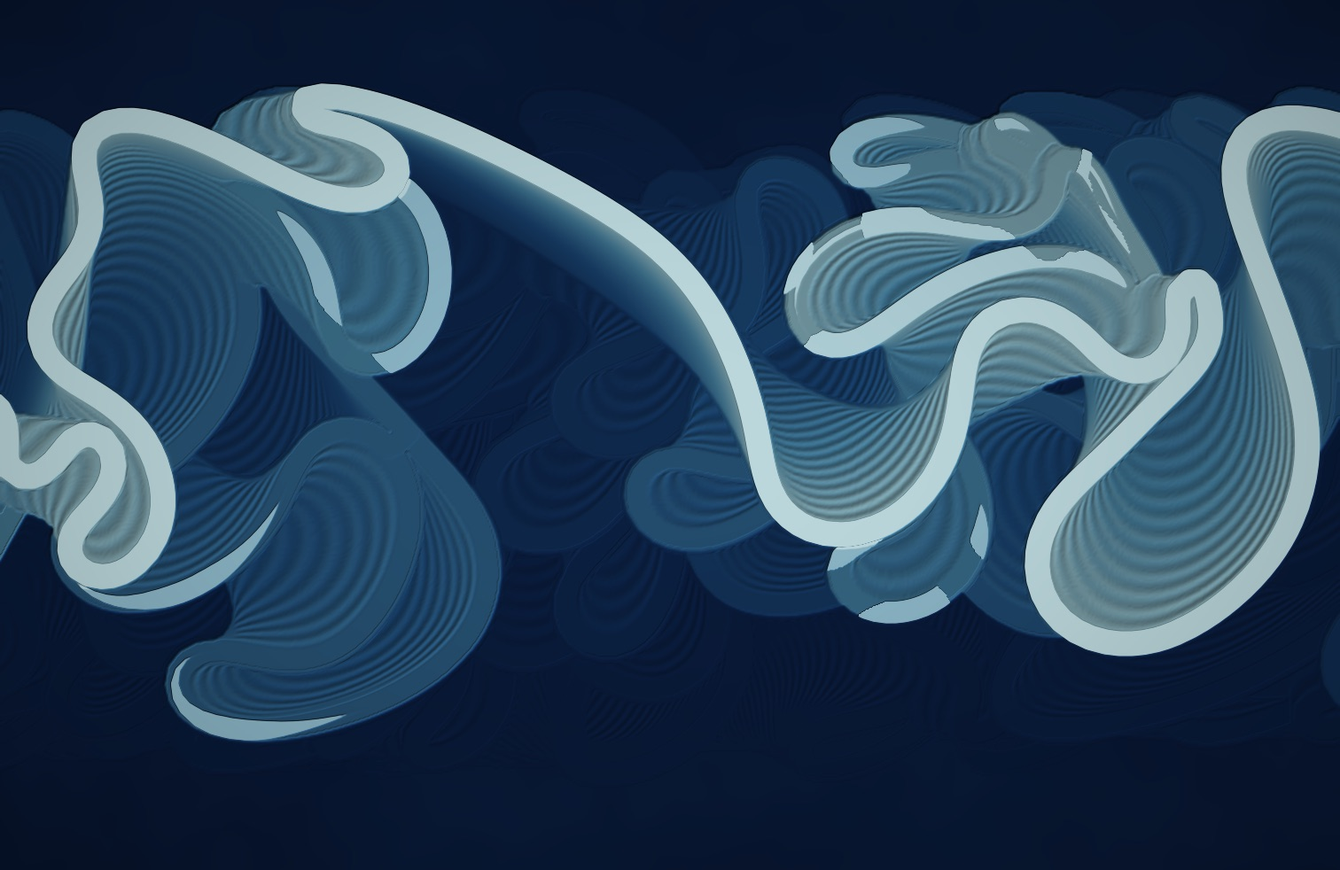
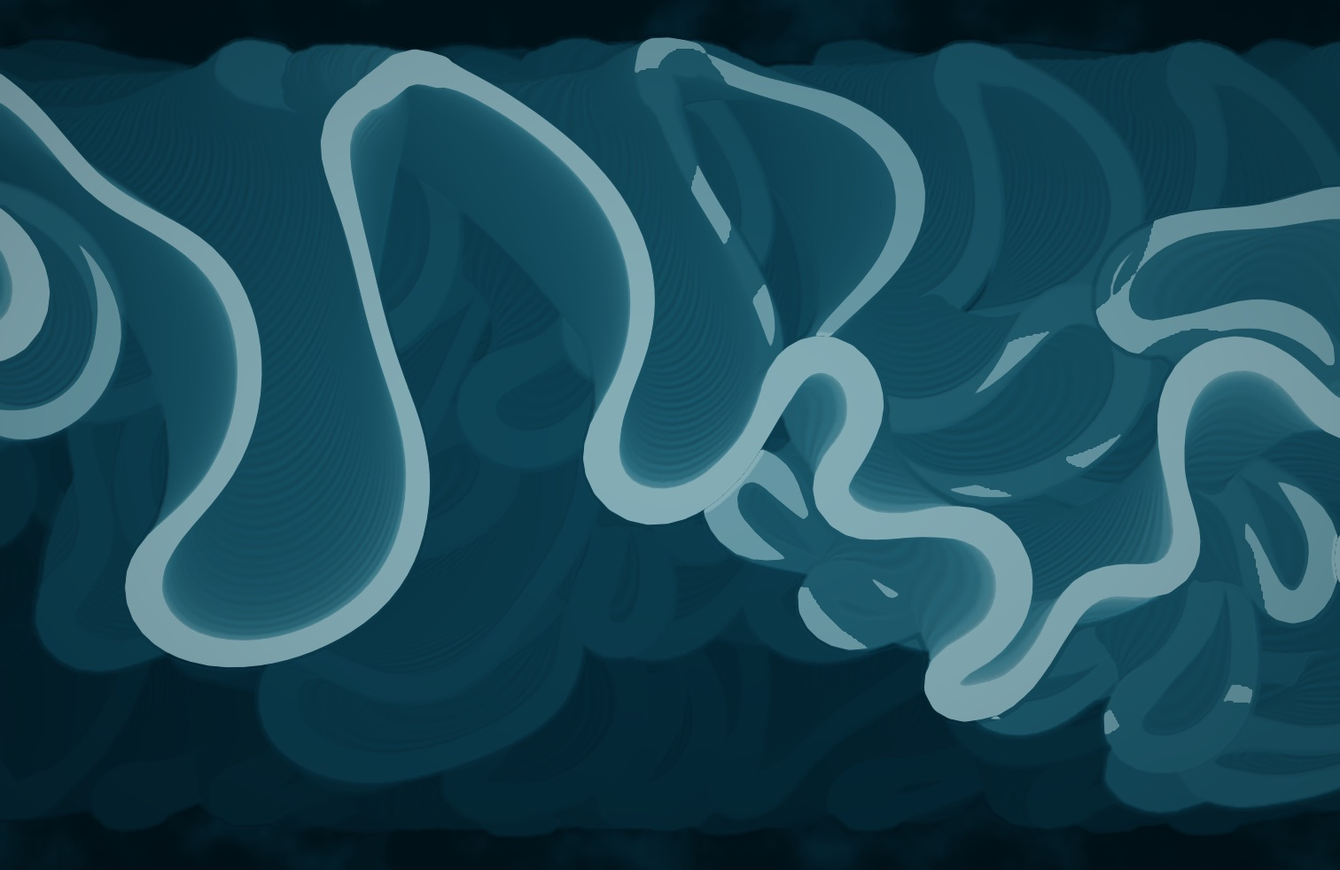
Docs: Meander's second round: the looks Dave picked, and a wrong measurement put right
The prototype's river was never twice too wide: the script had counted the
pale ground beside the water. The plan, the prototype and its pictures now
match the final round.

diff --git a/docs/meander/proto/render.py b/docs/meander/proto/render.py
@@ -85,7 +85,10 @@ def relief(r, f=2, palette="Survey Blue", crop=None, seed=7):
     p = RELIEF[palette]
     age = r.t - S
     # height above the river, 0 to 1: a bar is up out of the water within a couple of T, then silts up for ages
-    h = 0.42 * (1 - np.exp(-age / 1.6)) + 0.58 * (1 - np.exp(-age / 170))
+    h = 0.25 * (1 - np.exp(-age / 1.6)) + 0.75 * (1 - np.exp(-age / 90))
+    lage = np.maximum(r.t - SI, 0)  # the lake's own age (only right within two texels of its banks)
+    hollow = smooth(0.66 - LK, 0.0, 0.12) * smooth(lage, 2.0, 12.0) * np.exp(-lage / 140)  # an old channel stays low for a long while: never at once
+    h = h - 0.14 * hollow * smooth(h, 0.1, 0.4)
     # scroll bars: old bank lines, so contours of the stamp; two spacings beating, uneven in strength, and low
     gx, gy = grad(S); g = np.hypot(gx, gy)
     fade = 1 - smooth(2 * np.pi * g / TS, 0.7, 1.5)  # too fine to draw, and across a scarp: flat
@@ -98,11 +101,11 @@ def relief(r, f=2, palette="Survey Blue", crop=None, seed=7):
     # ground the river has not reached in memory: not flat, but nothing like a river's work either
     wild = smooth(age, AMAX * 0.80, AMAX * 0.98)
     rough = 0.6 * noise(S.shape, 60 * f // 2, seed) + 0.3 * noise(S.shape, 22 * f // 2, seed + 1) + 0.1 * noise(S.shape, 8 * f // 2, seed + 2)
-    hc = np.clip(h + 0.012 * scroll, 0, 1)
+    hc = np.clip(h + 0.02 * scroll, 0, 1)
     col = ramp(hc, p["stops"])
     col = col * (1 - wild[..., None]) + (p["ground"] + (np.array(p["stops"][5][1]) - p["ground"]) * smooth(rough, -0.1, 0.55)[..., None]) * wild[..., None]
     # light from the upper left on the fine relief only, and none within a few pixels of water: no rims
-    hs = 0.35 * h + 0.018 * scroll + 0.05 * wild * rough
+    hs = 0.35 * h + 0.03 * scroll + 0.05 * wild * rough
     gx, gy = grad(hs)
     z = 5.0 * f
     nx, ny = -gx * z, -gy * z
@@ -114,7 +117,7 @@ def relief(r, f=2, palette="Survey Blue", crop=None, seed=7):
     col = col * (1 - water[..., None]) + wcol * water[..., None]
     yy, xx = np.mgrid[0:S.shape[0], 0:S.shape[1]]
     vig = 1 - 0.22 * (((xx / S.shape[1] - 0.5) ** 2 + (yy / S.shape[0] - 0.5) ** 2) * 2)
-    return np.clip(col * vig[..., None], 0, 1)
+    return np.clip(col * vig[..., None] * 0.86, 0, 1)
 
 
 FISK = {
@@ -161,7 +164,8 @@ def fisk(r, f=2, palette="Fisk 1944", crop=None, seed=7):
     w = np.maximum(river, lake)[..., None]
     col = col * (1 - w) + p["river"][None, None, :] * grain * w
     heavy = 1 - smooth(np.abs(DA - 0.5), 0.9 * px, 2.2 * px)  # the present banks: the only heavy line on the sheet
-    thin = (1 - smooth(np.abs(LK - 0.5), 0.3 * px, 1.3 * px)) * (1 - river) * 0.7
+    fresh = 1 - smooth(r.t - SI, 0.5, 6.0)  # a new lake keeps the river's heavy bank line, thinning over a few T
+    thin = np.maximum((1 - smooth(np.abs(LK - 0.5), 0.3 * px, 1.3 * px)) * 0.7, (1 - smooth(np.abs(LK - 0.5), 0.9 * px, 2.2 * px)) * fresh) * (1 - river)
     line = np.maximum(heavy, thin)[..., None]
     col = col * (1 - line) + p["line"][None, None, :] * line
     yy, xx = np.mgrid[0:S.shape[0], 0:S.shape[1]]

diff --git a/docs/meander/proto/meander.py b/docs/meander/proto/meander.py
@@ -210,7 +210,7 @@ class River:
         rising = (cov > s.cov) & ~full
         old = np.maximum(s.stamp[rising], s.t - 400.0)
         s.stamp[rising] = old + (s.t - old) * (cov[rising] - s.cov[rising]) / (1 - s.cov[rising])
-        np.maximum(s.lake, 1 - d, out=s.lake, where=d < 1)  # the river eats any lake it crosses, to a fraction of a texel
+        np.maximum(s.lake, 0.5 + 3 * (0.5 - d), out=s.lake, where=d < 1)  # the river eats any lake it crosses, to a fraction of a texel
         s.cov = cov
 
     def make_lake(s, lx, ly, lh):
@@ -236,7 +236,8 @@ class River:
         for idx, rate, born, end, half in s.lakes:
             front = (half + 2) * smooth(np.float32(s.t - born), s.lake_life * 0.3, s.lake_life) - 1.5
             late = s.lake_close * smooth(front - end, -1.5, 0.5)
-            lk[idx] = np.minimum(lk[idx] + (rate + late) * s.lake_fill * dT, 1.0)
+            v = lk[idx]
+            lk[idx] = np.where(v < 0.56, np.minimum(v + (rate + late) * s.lake_fill * dT, 0.56), v)  # a dried lake stays a hollow
         s.lakes = [L for L in s.lakes if s.t - L[2] < s.lake_life * 1.5]
 
     def live_band(s, r=0.5):

diff --git a/docs/meander/proto/long.py b/docs/meander/proto/long.py
@@ -7,8 +7,8 @@ import render
 out, seed, steps = sys.argv[1], int(sys.argv[2]), int(sys.argv[3])
 os.makedirs(out, exist_ok=True)
 r = River(seed=seed); t0 = time.time(); log = []
-minutes = {6000 + k * 60 for k in range(6)}        # 2.4 T apart: three minutes of wallpaper time each
-hours = set(range(10000, steps + 1, 10000))        # 400 T apart: 8 h 20 min each
+minutes = {1500} | {8000 + k * 60 for k in range(6)}  # the first frame after a T 60 launch history; then 2.4 T apart
+hours = set(range(2500, steps + 1, 2500))          # 100 T apart
 for n in range(1, steps + 1):
     r.step()
     if n % 1000 == 0:

diff --git a/docs/meander/research-simulation.md b/docs/meander/research-simulation.md
@@ -2,6 +2,8 @@
 
 A research agent's report as it was sent on 2026-10-10, unedited, kept so its detail and sources aren't lost. The plan beside it is the summary and has Dave's decisions; where the two differ, the plan is later. `scratch/` was the session's temporary folder: the scripts and pictures worth keeping were copied into this folder, the rest (downloaded references, video clips) is gone and its source URLs are below.
 
+The first seven messages are round 1; the note and five messages after them are round 2, which fixes the looks and has the complete maths as the final prototype runs it. The last message was sent to the look research's agent.
+
 Meander 1/7: it works, and one simulation feeds both looks. Verdict, paths, and what is and isn't proven.
 
 A Python prototype ran three days of wallpaper time (90,000 steps, 2,500 cutoffs) without the river crossing itself, leaving the valley, straightening or dying. It draws a Fisk-style map and a shaded relief from the same three per-texel fields, at the texture size the app would use (756 x 491, one texel per 2 pt), read the way Turing Patterns' shader reads its texture.
@@ -232,3 +234,193 @@ URLs:
 Unsourced: that a pinned inlet washes out because the instability travels downstream is my reading of what I saw. No real river's migration rate is cited anywhere above.
 
 Nothing was blocked. I wrote only under the scratchpad's meander/ folder.
+
+---
+
+Meander interim (new stills and a cutoff strip follow in a few minutes): the river in t5/t6 was not twice too wide, and three of the four faults are now fixed in the renders.
+
+Scale: I measured the water itself in my renders (distance transform on the water's colour). t5, t6 and every still I sent are 28 px of 1512 = 1.84% of the frame, 54 widths across: inside meander-look's 40 to 55. t1 was 16 px, 1.06%, 94 across. meander-look's 3.5 to 4% comes from thresholding brightness (scripts/width.py), which also counts the pale new ground beside the water. In my first relief that ground stayed pale for about 8 widths behind the moving bank, so the river read as a fat pipe. So the slider's true-to-life default is the geometry you already saw (28 to 32 pt); zooming in goes from there. What had to change was the look, not the scale.
+
+Fixed in the renders now (render.py, earlier version kept as render-v1.py):
+1. Pipe: no outline in relief. New ground now rises out of river level within about half a width of the bank, so the bright ribbon is the water plus a narrow apron. The channel's width now varies along its length, 0.7 W on straight reaches to 1.5 W round the tightest bends, easing over time so a cutoff can't jump it (meander.py; the earlier one is meander-v1-constant-width.py).
+2. Scroll rings: two spacings beating, uneven in strength, a few percent of brightness, about 0.2 W apart at the average bank's pace. At one pixel a point they nearly vanish; they show at Retina.
+3. Band colours: Fisk's four inks on cream with his line ink, as meander-look measured them; older is paler by his ink-coverage steps (solid, 65, 50, 40, 23%) as flat tints that slide smoothly; the live river is bare paper between heavy bank lines. Single-ink and dark versions too.
+
+Partly fixed:
+4. Empty ground: with the valley walls 1.5 W from the edges and memory raised to T 600, a river that has run a while covers the screen edge to edge, and dried lakes stay as lighter hollows. But the first frame after a T 60 launch history is still a young belt on empty ground. Filling it at launch means a much longer history (I have a cheap way to try: coarse nodes and steps for the distant past) or drawing the untouched ground as textured upland, which is what the left third of the Helena reference is. I'll show the first frame as it is.
+
+One correction to 6/7: my "slab band checked against the exhaustive version" held for the one state I tested. A later state showed it missing 4 of 44,883 texels at the joint across the period's seam. Fixed and rechecked (worst difference 4e-6 W). Field update timings are 0.5 to 0.9 ms depending on how much river is on screen.
+
+---
+
+Meander round 2, 1/5: the stills at true-to-life scale and the cutoff strip, to Dave's picks. Four more follow: the river's maths, the fields, the two looks' formulas, and what is still wrong.
+
+All under scratch/meander/proto/out2/ :
+- still-relief-survey-blue.png: relief, the default look, in meander-look's Sauk colours (also -rainforest, -garnet)
+- still-fisk-fisk-1944.png: the old map in Fisk's four inks on cream (also still-fisk-fisk-1944-dark.png, still-fisk-sage.png, -salmon, -sage-dark: single inks, older is paler)
+- cutoff/cutoff-fisk.png and cutoff/cutoff-relief.png: ten frames through one cutoff at 25 s a T, from 3 s before to 10 min after
+- cutoff/frame-before-after-diff-fisk.png (and -relief): the frame before, the cutoff frame, and what changed
+- first-frame-relief.png, first-frame-fisk.png: what a T 60 launch history leaves
+- retina-relief.png, retina-fisk.png: a 500 x 350 pt piece at 2x Retina
+- strip-minutes-relief.png, strip-minutes-fisk.png: six frames a minute apart at 25 s a T
+All stills are 1512 x 982 at one pixel a point, the river 54 widths across (28 pt, 1.85% of the frame), at T 400 of a fresh run.
+
+Against the four faults:
+1. Pipe: fixed. No outline in relief; the water is the lightest thing and new ground darkens within about half a width. The water's width now varies: 22 to 42 px (10th to 90th percentile), median 28.
+2. Even, strong scroll rings: fixed. They are now a few percent of brightness, two spacings beating, uneven. At one pixel a point they nearly vanish; see retina-relief.png.
+3. Empty ground: fixed for a river that has run a while (history covers 66 to 90% of the screen, median 83%, with the valley walls 1.5 W from the edges and memory at T 600; dried lakes stay as lighter hollows). Not fixed for the first frame.
+4. Colour wheel: fixed. meander-look's busy.py gives hues 1.00 for every new still. Relief: luma 0.25, edges 1.1%. Fisk 1944: luma 0.73, chroma 0.19.
+
+Measured on the final code:
+- River: the same model with a varying width, T 800 (20,000 steps): 630 cutoffs, no self-crossing at any of 20 checks, sinuosity 1.9 to 3.2, about 0.53 cutoffs per T on screen.
+- The cutoff frame, share of a 14 W window changing more than 20 levels: relief 0.07%, Fisk 0.38% (its two heavy bank lines in the neck vanish). The frames either side: 0.000% and 0.004%. My first try at the new looks made it 1.4% and 2.6%, because a new lake changed its line weight and gained a hollow at once; both now ease in with the lake's age.
+- Ordinary frame-to-frame change at 25 s a T, 1/15 s apart: relief 0.04 levels, Fisk 0.10. In 5/7 I guessed 25 s a T would land near Turing Patterns' Regrow (0.07 to 0.11) for both; that holds for Fisk only. The new relief is so low in contrast that it measures near Turing's Still (0.03) even at this pace.
+
+The Swift sketch still times the constant-width river; the varying width adds a multiply per texel and a slightly wider band, which I have not re-timed.
+
+---
+
+Meander round 2, 2/5: the river's maths, complete, as the final prototype runs it (proto/meander.py). Law and constants Omega, Gamma, alpha from meanderpy, Apache-2.0, https://github.com/zsylvester/meanderpy (its migrate_one_step and README), after Howard & Knutson 1984, https://agupubs.onlinelibrary.wiley.com/doi/abs/10.1029/WR020i011p01659 (paper not read). Everything marked "mine" is my choice, tested only by the runs.
+
+Units: channel width W = 1; time T = kl t / W. Screen sx by sy widths (54 by 35.07 for a 28 pt river on 1512 x 982 pt).
+
+State: nodes P_i = (x_i, y_i) with half-width hw_i, i = 0..n-1. Periodic: node i+n is node i moved by (L, 0), L = sx + 20 (mine).
+
+Start (mine): n = round(L / 0.5), x_i = -10 + L i / n, y_i = sy/2 + sum over k = 1..39 of a_k / sqrt(k) sin(2 pi k i / n + phase_k), a_k normal with deviation 0.25, phases uniform. hw_i = 0.5.
+
+One step of size eps:
+1. a = P_i - P_(i-1), b = P_(i+1) - P_i, c = a + b (neighbours wrap, adding or taking L in x).
+2. Curvature k_i = 2 (a_x b_y - a_y b_x) / (|a| |b| |c|). Normal n_i = (c_y, -c_x) / |c|. (Mine: exact for uneven spacing.)
+3. Upstream average, in order downstream, started 16 / (alpha 0.5) nodes before node 0: C = k_i w_i + q_i C, G = w_i + q_i G, with w_i = (|a| + |b|) / 2 and q_i = exp(-alpha |a|). U_i = C / G.
+4. R_i = -k_i + 2.5 U_i (Omega = -1, Gamma = 2.5). alpha = 0.73 (meanderpy's 2 Cf / D x W with Cf 0.011, D 6 m, W 200 m).
+5. The bank being eaten: B = P_i + 0.5 sign(R_i) n_i.
+6. Erodibility (mine): E = exp(0.5 g(B)), g a grid of standard normal numbers, cells about 8 W, read bilinearly, wrapping in x.
+7. Valley wall (mine): if sign(R_i) n_y (B_y - sy/2) > 0, E is multiplied by smoothstep((sy/2 - 1.5 - |B_y - sy/2|) / 5).
+8. P_i moves by clamp(R_i E eps, -1.25 eps, 1.25 eps) along n_i.
+9. Width (mine): bend = mean of |k| over the 7 nodes centred on i; want = 0.5 (0.7 + 0.8 clamp(bend / 0.4, 0, 1)); hw_i moves toward want by the share 1 - exp(-eps / 1.5).
+10. T increases by eps.
+
+Cutoff (every step live; mine except the idea): among pairs i, j (j may be in the next period) at least 12 nodes apart both ways round, with |P_i - P_j| < 1.04 (hw_i + hw_j), take the one with the least |P_i - P_j| - hw_i - hw_j. The loop is nodes i to j. The river becomes nodes j onward round to i, keeping both; the period's closing segment joins i to j. Repeat until none.
+
+Respacing (mine), up to 4 passes: split every segment longer than 0.7 at (-P0 + 9 P1 + 9 P2 - P3) / 16, the new half-width the mean of its neighbours'; otherwise drop the far node of every segment shorter than 0.3, never two neighbours in one pass. Then shift all x by a multiple of L so their mean stays near L/2 - 10.
+
+Step sizes: 0.04 for the launch history. Stable only while eps < spacing squared / 2 = 0.045 (my derivation; the -k term is a heat equation). Live: eps = 1 / (seconds per T x steps per second), 0.004 at 25 s a T and 10 steps a second.
+
+Derived by me: the fastest-growing wavelength is 2 pi / (alpha sqrt(sqrt(2.5) - 1)) = 8.24 / alpha = 11.3 W along the channel.
+
+Not from any source: every constant in steps 6 to 9, the cutoff's 1.04 and 12, the 1.25 cap, the respacing limits.
+
+---
+
+Meander round 2, 3/5: the fields and how they are kept, complete. All of this is mine; none of it comes from a source.
+
+Grid: 14 texels per river width (2 pt for a 28 pt river), 756 x 491. A texel's centre is ((ix + 0.5) / 14, (iy + 0.5) / 14) in widths.
+
+Three numbers per texel:
+- stamp: the time the live channel last covered it. Starts as "never".
+- lake: bank distance of the cut-off loop it belongs to. Starts at 1 (no lake).
+- live: bank distance of the live channel, kept only near it.
+
+Bank distance of a channel, for a texel centre p: the least, over the channel's segments, of [distance from p to the segment] - [half-width there, interpolated along the segment] + 0.5. So 0.5 is the bank, less is water. Each segment is drawn in the period that puts it on screen.
+
+Every field update (each live step; every 8th coarse step during the launch history, as timed):
+1. live = bank distance of the live channel, for texels out to 2 texels beyond its banks; elsewhere "far".
+2. cover = clamp(0.5 + (0.5 - live) x 14, 0, 1): the share of the texel under water.
+3. If cover = 1: stamp = now.
+   Else if cover is more than at the last update: stamp moves toward now by the share (cover - before) / (1 - before), starting from max(stamp, now - 400).
+   Else: unchanged. This is what records a bank's furthest reach to a fraction of a texel.
+4. lake = max(lake, 0.5 + 3 (0.5 - live)): the river erases any lake it crosses.
+5. Remember cover for next time (0 outside the band).
+
+At a cutoff, before the loop's nodes are dropped: for texels out to 0.5 W beyond the loop's banks, lake = min(lake, the loop's bank distance). These are the numbers the live field held, so the water does not change. Keep for the lake: its texels; for each, `end`, the distance along the loop to its nearer end; rate = 1 + 80 exp(-end / 1.2); the time it was born; half the loop's length.
+
+Every field update, per lake, with age = now - born and dT the time since the last update:
+- front = (half + 2) smoothstep(age; 4.8, 16) - 1.5
+- late = 40 smoothstep(front - end; -1.5, 0.5)
+- every texel with lake < 0.56: lake = min(lake + (rate + late) x 0.006 x dT, 0.56)
+So the ends plug in about 1 T, the body narrows slowly, then a front from each end closes it by about 16 T, and it stays at 0.56: dry, but remembered as a hollow. Forget the lake's list after 24 T.
+
+The texture (as the Swift sketch packs it): stamp in 16 bits across red and green at 0.01 T a level; lake and live in 8 bits each. For live, 0.5 + (value - 0.5) x 14 / 4, clamped, puts the bank at mid-range. The lake needs its range up to 0.66 for the hollow, so pack it over 0.25 to 1 instead.
+
+Rebasing: 16 bits at 0.01 T last 655 T, and memory is 600, so before the stamps run out subtract a constant from all of them and from the clock; a multiple of 15.86 T keeps the scroll phases and stage colours still (4 stages of 5 T; scroll periods 0.7 and 0.7 x 1.618). Not built. Keep the clock as a Double.
+
+The shader reads each field through a cubic B-spline (four taps for all three), and reads the stamp once more about two texels inside any lake, down the lake field's slope, for the lake's own age: at a lake's bank the plain read is already half the old land's stamp. The prototype stands in for that second read with "the newest stamp within two texels". It is only right within two texels of the lake's bank, which is all it is used for.
+
+---
+
+Meander round 2, 4/5: both looks, per pixel, complete (proto/render.py). S, LK, DA are the smoothed reads of stamp, lake and live; SI is the stamp read inside a lake. All colours are meander-look's measurements (scripts/palettes.py in the meander scratchpad; their report has the source pictures and licences). The formulas and constants are mine, tuned by eye against their references; px is one pixel in widths.
+
+Shared:
+- age = now - S, capped at 600 T. lage = now - SI.
+- river = smoothstep(0.5 - DA) over 0.6 px either side; lake = the same of LK, times (1 - river).
+
+Relief (the default):
+- height h = 0.25 (1 - exp(-age / 1.6)) + 0.75 (1 - exp(-age / 90)). The first term is what ended the pipe: new ground leaves river level in about half a width.
+- hollow = smoothstep(0.66 - LK; 0, 0.12) x smoothstep(lage; 2, 12) x exp(-lage / 140); h falls by 0.14 x hollow x smoothstep(h; 0.1, 0.4). Old channels stay a shade lighter, and never appear at once.
+- scroll = [0.6 cos(2 pi S / 0.7) + 0.4 cos(2 pi S / 1.133 + 1.3)] x fade x patch x (0.35 + 0.65 exp(-age / 150)). fade = 1 - smoothstep(2 pi |grad S| / 0.7; 0.7, 1.5) per pixel, which removes them where too fine to draw and across scarps. patch = 0.55 + 0.45 x soft noise in cells about 70 pt.
+- colour = ramp of h + 0.02 scroll through, at h = 0, 0.10, 0.32, 0.52, 0.72, 0.90, 1: (120,178,192) (52,130,151) (24,93,115) (14,76,97) (10,64,83) (4,46,63) (1,30,42).
+- ground untouched in memory (age past about 480 to 590): fades to (0,22,31), lifted toward (4,46,63) by three octaves of soft noise.
+- light: shading height 0.35 h + 0.03 scroll; normal = (-5 d/dx, -5 d/dy, 1) with the slope per texel; light from the upper left (-0.55, -0.62, 0.56); colour x clamp(1 + 0.9 (n.l - 0.56) x away, 0.72, 1.3). away fades the light to nothing within 4 px of any water, so no bank has a rim.
+- water: river (153,200,211); a lake drifts 35% toward (52,130,151) over lage 0.3 to 4.
+- vignette 0.22; everything x 0.86.
+
+Old map (Fisk):
+- stage k = floor(S / 5 T). ink = one of sage (188,199,139), salmon (215,114,97), grey-teal (154,180,159), straw (221,208,123), by k mod 4. Paper (235,224,196). Line ink (89,75,59).
+- cover, by age in stages (age / 5), straight lines between: 0 to 1.5: 1.0; 3: 0.65; 6: 0.5; 12: 0.4; 30: 0.23; 90: 0.12; 120: 0. These are Fisk's solid, hatch and dot coverages as flat tints, sliding with age so nothing steps.
+- colour = paper x (1 - cover) + ink x cover, both with 3% paper grain.
+- thin lines where stages meet (within about half a pixel of a whole number of S / 5) and along scarps (S / 5 changing by more than about 0.35 to 0.8 a pixel), at 45% ink, less on pale land; hachures every 1.4 T at 14%.
+- river and lakes: bare paper (244,237,216). Heavy line where |DA - 0.5| is under 0.9 to 2.2 px. A lake's line is the same heavy one when new, thinning to 0.3 to 1.3 px at 70% over lage 0.5 to 6.
+- single ink: two near shades of one ink alternating by stage. Dark: paper (27,24,20), river (166,158,138), line (80,76,67), inks (100,106,74) (123,65,55) (82,96,84) (110,104,61).
+
+What makes neither look pop: a stage's colour is fixed to the land once laid; cover, height, hollows and line weights depend only on ages, which move smoothly; the water's edge comes from fields that hand over the same numbers at a cutoff.
+
+---
+
+Meander round 2, 5/5: what is still wrong, what changes in the plan, and what is open.
+
+Still wrong in the new renders:
+- Lakes. A lake's drying ends are blocky, and where the river re-crosses a fresh oxbow near the neck it leaves ragged scraps (cutoff/cutoff-fisk.png: the 10 s, 30 s and 1 min frames). This is now the most visible flaw. I'd give each lake's end a taper worked out along its length rather than per texel, and dry a part-eaten lake quickly.
+- A hairline of land shows where a lake meets the river (retina-relief.png). Letting the lake run a texel under the river's edge would close it.
+- Banks are faceted on tight bends at Retina: straight chords up to 0.7 W long. Draw the fields from the centreline subdivided along its Catmull-Rom curve.
+- The first frame is a young belt on empty ground (first-frame-relief.png). It is dark, textured ground, and the left third of the Helena reference looks like that, but it is not the edge-to-edge floodplain of a river that has run two hours.
+- Relief is soft next to real lidar: no levees, no islands or bars in the channel, width varying 2x rather than 2 to 3x, scroll bars invisible below Retina.
+- In the old map, lakes are bare paper like the river, so a fresh oxbow reads as a second river until its line thins.
+
+Changes to the plan in 6/7:
+- River size slider: 28 pt (54 widths across) is already true to life, so the default sits at the small end and the slider zooms in from there, to about 56 pt. Changing it rebuilds the river. Keep 14 texels a width and let the texel grow from 2 pt to 4 pt as it zooms, so the cost stays the same.
+- Look: Relief by default, Old map as the other choice; same texture, a different shader branch or source.
+- Colors: two lists, one per look. Old map: Fisk 1944, Sage, Salmon, grey-teal, each with a dark version. Relief: Survey Blue, Rainforest, Garnet, Amethyst from meander-look's list.
+- Valley walls 1.5 W from the edges, memory T 600.
+- The shader needs the lake field over a wider range than I first packed it (3/5).
+- Each node now carries a half-width; the Swift sketch does not have that yet.
+
+Launch history, three choices for the empty first frame:
+1. Leave it: T 60, about 0.2 s as timed, young belt on dark ground.
+2. A longer history. The river alone costs about 0.045 ms a coarse step, so T 400 is about 0.45 s before any fields. Too slow as it stands.
+3. The distant past cheaply: coarser nodes and bigger steps for the river, plain filled quads for its stamps, then T 60 exactly. Stamps are a maximum, so order doesn't matter. Not tried; my guess is under 0.1 s extra.
+
+Open, for Dave:
+- Pace. Relief at 25 s a T measures as still as the Turing look he found finished. Faster, or is the old map's liveliness the answer for those who want motion?
+- The first frame: which of the three above.
+- Is the bold zoomed river still wanted now that the default no longer reads as a pipe?
+
+Verified this round by running: the varying-width river to T 800, both new looks, the cutoff frame. Not verified, as before: the shader as a shader, GPU cost, the upload, 15/30/60 fps. No real river's migration rate comes from me; meander-look's Mamore figure (about 0.03 widths a year) should set years per minute.
+
+---
+
+Your targets are in my new Meander renders, and one of your measurements needs a caveat: the channel's water was never twice too wide.
+
+Width: scripts/width.py thresholds brightness, so on my first relief it counted the pale new ground beside the water as channel. Measuring the water's own colour with a distance transform, t1 is 16 px of 1512 (1.06%, 94 widths across) and t5, t6 and every later still are 28 px (1.84%, 54 across), inside your 40 to 55. The fault was real, though: the ground stayed pale for about 8 widths behind the moving bank, so it read as a fat pipe. I've told team-lead the scale was already right and the look was wrong.
+
+What changed, from your message:
+- no outline in relief; new ground now leaves river level within about half a width
+- the water's width varies along the river, 22 to 42 px (10th to 90th percentile)
+- scroll bars a few percent of brightness, uneven, about 0.2 W apart (finer than that is below my texture at one pixel a point)
+- dried oxbows stay as lighter hollows; the floodplain is covered edge to edge once the river has run a while
+- relief in your Survey Blue (Sauk) colours; the map in your four Fisk inks on cream with your line ink, older paler by your coverage steps as flat tints, the river bare paper with heavy bank lines; single-ink and dark versions
+
+Your busy.py on the new stills: relief luma 0.25, edges 1.1%, hues 1.00; Fisk 1944 luma 0.73, chroma 0.19, hues 1.00.
+
+Stills, if you want to put them beside the references: scratch/meander/proto/out2/still-relief-survey-blue.png, still-fisk-fisk-1944.png, retina-relief.png, retina-fisk.png.
+
+Still short of your references: no levees, no bars or islands in the channel, width varying 2x not 2 to 3x, and the relief is much softer than real lidar.

diff --git a/docs/meander.md b/docs/meander.md
@@ -2,16 +2,16 @@
 
 A river slowly migrating across its floodplain: bends grow and shift down the valley, a neck narrows until the river cuts through and leaves an oxbow lake, and every former course stays written on the ground behind it. Drawn as lidar relief (height above the river, in one colour family) or as a map of old courses coloured by age, after Harold Fisk's 1944 maps of the Mississippi. A new river on each load.
 
-Dave picked the idea on 2026-10-10 ([ideas.md](ideas.md)). That day two agents researched it (one built and ran the simulation, one measured the real references) and one sheet went to Dave. **Nothing is built in the app.** This page is the plan, the measurements to build against and their sources.
+Dave picked the idea on 2026-10-10 ([ideas.md](ideas.md)). That day two agents researched it (one built and ran the simulation, one measured the real references) and two sheets went to Dave. **Nothing is built in the app.** This page is the plan, the measurements to build against and their sources.
 
 - **The two research reports in full:** [the simulation](meander/research-simulation.md) and [the look](meander/research-look.md).
-- **In `docs/meander/`:** `sheet1.jpg` (what Dave chose from), `reference-mississippi-relief.jpg` (the real river, our render of USGS elevation), the prototype's pictures, `proto/` (the simulation: `python3 meander.py` is its self-check; `render.py` draws both looks) and `measure/` (the scorecard `busy.py`, the palettes, the relief and scroll-bar measurements). Research scripts, not reviewed line by line.
+- **In `docs/meander/`:** `sheet1.jpg` (what Dave chose from) and `sheet2.jpg` (the same references above the prototype's second round, in the looks he chose), `reference-mississippi-relief.jpg` (the real river, our render of USGS elevation), the prototype's pictures (`proto-relief.jpg`, `proto-map-fisk.jpg`, `proto-cutoff.jpg`, `proto-first-frame.jpg`), `proto/` (the simulation: `python3 meander.py` is its self-check; `render.py` draws both looks) and `measure/` (the scorecard `busy.py`, the palettes, the relief and scroll-bar measurements). Research scripts, not reviewed line by line.
 
 ## Dave's decisions (2026-10-10)
 From sheet 1: the two real references (Fisk's sheet 6, and the same stretch of river as relief from USGS elevation) above the simulation's renders of that hour.
 - **Look:** both, from one simulation. Relief is the default; bands by age are a Settings choice.
 - **Band colours:** palettes. Fisk's own four muted inks on cream, and single-ink palettes where older is simply paler.
-- **River size:** a slider, true to life by default (the channel about 2% of the screen's width), zooming in toward a bold river.
+- **River size:** a slider, true to life by default (the channel about 2% of the screen's width), zooming in toward a bold river. The prototype's river was already that size (28 pt on a 1512 pt screen, 1.85%, 54 widths across), so the default is the small end and the slider zooms in from there, to about 56 pt. When he chose, I had told him the prototype's river was twice too wide; that was wrong (see [What is still wrong](#what-is-still-wrong-with-the-prototypes-pictures)).
 
 Not asked yet: the pace (it needs a film), Light and Dark Mode (the plan follows the system, as Wind does), and rivers "after a real one".
 
@@ -51,6 +51,8 @@ The pictures of rivers as height above the water, made famous by Daniel Coe. His
 | Our relief of the Mississippi from 3DEP | 0.20–0.31 | 1–2% | 1.0 |
 | The simulation's first relief | 0.19 | 3.3% | 1.0 |
 | The simulation's first bands | 0.64 | 10.3% | 0.44 |
+| Its second relief (Survey Blue) | 0.25 | 1.1% | 1.0 |
+| Its second map (Fisk's four inks) | 0.73 | – | 1.0 |
 
 Targets: Dark relief at 0.15–0.20, edges 2–5%, one family 1.0. Bands in Light at 0.80–0.88, edges under 10%, one family above 0.9 (Fisk's four inks apart).
 
@@ -119,11 +121,15 @@ Parameters:
 - **Neck cutoff:** the closest two nodes nearer than 1.04 W and at least 12 nodes apart along the river; drop the nodes between. 1.04 means the banks are touching, which is what makes the cutoff nearly invisible.
 - Left out: chute cutoffs, the river's slope and depth, levees, meanderpy's sinuosity factor.
 
-Over 90,000 steps: sinuosity 1.6 to 4.4, median 2.8; 239 to 656 nodes; about four big bends across a 54-width screen.
+- **The channel's width varies** (added in the second round): each node carries a half-width that eases toward `0.5 (0.7 + 0.8 clamp(bend/0.4, 0, 1))`, `bend` the mean curvature over seven nodes, so it runs from 0.7 W on straight reaches to 1.5 W round the tightest bends, slowly enough that a cutoff can't jump it. The cutoff test becomes `|P_i − P_j| < 1.04 (hw_i + hw_j)`.
+
+Over 90,000 steps with a constant width: sinuosity 1.6 to 4.4, median 2.8; 239 to 656 nodes; about four big bends across a 54-width screen. With the varying width, over 20,000 steps: 630 cutoffs, no self-crossing, sinuosity 1.9 to 3.2.
+
+**The complete maths as the final prototype runs it,** step by step with every constant and which are from meanderpy and which are the agent's own, is in [research-simulation.md](meander/research-simulation.md), round 2, messages 2 to 4. What follows is the summary.
 
 ### Running forever
 - **The river is periodic,** with a period of the screen's width plus 10 W either side, so what leaves on the right is what enters on the left, out of sight. Pinned at both ends (as meanderpy runs it) the river straightens from the inlet downstream and is two-thirds straight on screen by step 6,000.
-- **Valley walls** 3 W inside the top and bottom edges: a bank cutting toward a wall erodes more slowly over the last 6 W and stops at it. The belt as a whole wanders between the walls, which is where the long-run variety comes from.
+- **Valley walls** 1.5 W inside the top and bottom edges (3 W in the first round, which left empty margins): a bank cutting toward a wall erodes more slowly over the last 5 W and stops at it. The belt as a whole wanders between the walls, which is where the long-run variety comes from.
 - **Nothing tangles:** the instability regrows any straight reach, and cutoffs remove loops before they can cross. Zero self-crossings at every check of two 90,000-step runs.
 - **A new river on each load:** a straight line with small random wiggles and a random erodibility field, then a history run at launch in coarse steps. T 30 gives a full belt whose bends are young and alike; T 60 looks like a mature map.
 - **Each display its own river,** like every other simulated wallpaper.
@@ -141,40 +147,47 @@ The shader, so far only emulated in numpy (`render.py`): one cubic B-spline read
 - `age = now − stamp`.
 - Scroll bars `= cos(2π · stamp / 1.1 T)`: contours of the stamp, so they are the river's own old bank lines, fanning round each bend.
 - Water where the live or lake distance is under half a width.
-- **Bands:** `palette[floor(stamp / 5 T) mod 8]`, a ribbon per stage, fixed to the land once laid; all fading into the ground as age nears 160 T.
-- **Relief:** `height = 1 − exp(−age / 28 T)`, land building up since the river left, plus the scrolls, minus a hollow in a silting lake; colour by height above the river.
+- **Old map:** a ribbon per stage of 5 T, fixed to the land once laid, in one of Fisk's four inks by stage; the ink's cover falls with age through his measured steps (solid, 65%, 50%, 40%, 23%) as flat tints that slide, so nothing steps; the river and lakes are bare paper between heavy bank lines; all fading into the paper by 120 stages.
+- **Relief:** `height = 0.25 (1 − exp(−age/1.6)) + 0.75 (1 − exp(−age/90))`: new ground leaves river level within about half a width, which is what stopped the river reading as a pipe; plus faint scrolls at two spacings that beat, minus a hollow where a lake dried; colour by height above the river; light from the upper left, faded to nothing near water so no bank has a rim. Memory is 600 T.
 
 ### Pace and cutoffs, as measured
-For a river 28 pt wide, at 75 s of wallpaper per T: the fastest bank moves 0.47 pt a second and the average 0.11; a cutoff on screen about every 2.5 minutes; an oxbow lasts about 20 minutes; old courses stay visible 3.3 hours. At 25 s per T, three times all of that. Frame-to-frame change at 75 s per T is 0.026 grey levels a pixel (relief) and 0.035 (bands), about the same as the Turing Patterns look Dave called done moving (0.03), so the agent would default nearer 25–30 s per T with a Speed setting. The look research's "a year every 9 seconds" is in real years; the two haven't been reconciled.
+For a river 28 pt wide, at 75 s of wallpaper per T: the fastest bank moves 0.47 pt a second and the average 0.11; a cutoff on screen about every 2.5 minutes; an oxbow lasts about 20 minutes; old courses stay visible 3.3 hours. At 25 s per T, three times all of that. Frame-to-frame change at 75 s per T was 0.026 grey levels a pixel (relief) and 0.035 (bands) in the first round, about the same as the Turing Patterns look Dave called done moving (0.03). In the second round's looks at 25 s per T it is 0.04 (relief, which is now so low in contrast that it stays near that Still level even three times faster) and 0.10 (the old map, near Turing's Regrow). So relief may want a faster pace than the map, or the map is the lively one. The look research's "a year every 9 seconds" is in real years; the two haven't been reconciled.
 
-A cutoff, as it happens: the two limbs' banks touch; the loop's nodes are dropped; the river crosses the neck, which is the only thing that changes in one frame, a patch about a river's width across (0.05% of nearby pixels change by more than 20 levels in relief, 0.2% in bands; one cutoff measured). The kink relaxes over 10–20 s, the loop's ends silt up over a minute or two, its water darkens, and it narrows and dries from both ends, staying as a scar.
+A cutoff, as it happens: the two limbs' banks touch; the loop's nodes are dropped; the river crosses the neck, which is the only thing that changes in one frame, a patch about a river's width across (in the second round's looks, 0.07% of nearby pixels change by more than 20 levels in relief and 0.38% in the old map, whose two heavy bank lines vanish in the neck; one cutoff measured). The kink relaxes over 10–20 s, the loop's ends silt up over a minute or two, its water darkens, and it narrows and dries from both ends, staying as a scar.
 
 Stepping: 10 steps a second counted from elapsed time, as Turing Patterns counts its steps, so 15, 30 and 60 fps show the same river (by design; not run).
 
 ### Cost
 Measured with a standalone Swift sketch (`proto/bench.swift`, `swiftc -O`, M3 Max): the river step 0.03–0.05 ms; the field update 0.51–0.57 ms; so about 0.6 ms a step, ten times a second, or 0.1–0.4 ms a frame averaged. The launch history: about 200 ms for T 60, 72 ms for T 30, on the main thread at every load (Schlieren's is about 100 ms). Not measured: the texture upload, anything on the GPU.
 
-### What is wrong with the prototype's pictures
-See `docs/meander/proto-relief.jpg` and `proto-bands-jade.jpg` beside `reference-mississippi-relief.jpg`.
-- The relief reads as blue ribbon candy, not yet as lidar: the channel is about twice too wide with an outline, and the scroll bars are even, like corduroy (they are spaced by time, so they bunch where the river moved slowly).
-- Where the river re-crosses an oxbow, ragged scraps of water remain, and a drying lake's front is stair-stepped at Retina.
-- Old scarps wobble by about a pixel and, in bands, carry a thin fringe of other stages' colours.
-- The strips 3 W inside the top and bottom edges stay empty; history covers 62–77% of the screen.
-- Never-visited land is flat.
+### What is still wrong with the prototype's pictures
+See `sheet2.jpg`: the two real references above the second round.
+
+Fixed in the second round: the river reading as a pipe (no outline in relief, new ground darkening within half a width of the bank, a width that varies); even, strong scroll rings (now a few percent of brightness and uneven; at one pixel a point they nearly vanish and show at Retina); colours round the whole wheel (relief in Survey Blue; the map in Fisk's four inks on cream); empty ground beyond the belt, for a river that has run a while (history covers 66–90% of the screen).
+
+**A correction.** After the first round the look research measured the channel at 3.5–4% of the frame, twice the references', and that went to Dave and into the first version of this page. It was wrong: that script thresholds brightness, so it counted the pale new ground beside the water. Measured on the water's own colour, the channel was 1.84%, inside the references' range. The fault was real but it was the look (ground staying pale for eight widths behind a moving bank), not the scale.
+
+Still wrong:
+- **Lakes.** A drying lake's ends are blocky, and where the river re-crosses a fresh oxbow it leaves ragged scraps of water. Now the most visible flaw. Taper each lake's ends along its length, and dry a part-eaten lake quickly.
+- A hairline of land shows where a lake meets the river.
+- Banks are faceted on tight bends at Retina (straight chords up to 0.7 W long): draw the fields from the centreline subdivided along its curve.
+- **The first frame** after the launch history is a young belt on empty ground (`proto-first-frame.jpg`), not the edge-to-edge floodplain of a river that has run two hours.
+- Relief is soft beside real lidar: no levees, no bars or islands in the channel, width varying two times and not two to three, scroll bars invisible below Retina.
+- In the old map lakes are bare paper like the river, so a fresh oxbow reads as a second river until its line thins.
 
 ## The plan
 One file, `Sources/Atrium/Meander.swift`: a `River` type with no SpriteKit in it (nodes, step, cutoff, fields, pixel bytes), the scene, its shader, knobs and palettes. Everything built in `sceneDidLoad`; steps owed at 10 a second in `update(_:)`; the texture uploaded only when a step ran.
-1. **The look first, in the prototype:** bring `render.py`'s relief to the references' scorecard at the true-to-life river size Dave picked (thin channel of varying width, no outline, faint irregular scrolls, texture to the edges), and the bands in Fisk's measured inks. Then a film at two paces for Dave. No Swift before this: it is the Crystals risk.
+1. **The look first, in the prototype.** A second round is done (`sheet2.jpg`). Left: the lakes, the faceted banks, the first frame, and whether relief needs levees and bars to hold up beside the reference. Then a film at two paces for Dave. No Swift before he has seen it move: it is the Crystals risk.
 2. **`River`** ported from `meander.py`, with its check: 6,000 coarse steps must cut off loops, never cross and stay in the valley; stepping by 1/15, 1/30 and 1/60 s for the same elapsed time must give identical nodes.
 3. **The texture and shader,** matched to `render.py`'s stills. Finds out the unknowns: the alpha byte carrying data, a second dependent read, the uniform count, the upload's cost.
 4. **Motion,** in frame strips through a cutoff: no frame with more than about 0.3% of pixels changing over 20 levels.
-5. **Settings:** Look (Relief, Old map), Colors (palettes, Random by default), Speed (0.25–4×), River size (the slider Dave picked: a rebuild), how long old courses stay, scroll-bar strength, how long lakes last, the shared grade knobs.
+5. **Settings:** Look (Relief, Old map); Colors, a list per look (relief: Survey Blue, Rainforest, Garnet, Amethyst; old map: Fisk 1944, Sage, Salmon, Teal, each with a dark version), Random by default; Speed (0.25–4×); River size (the slider Dave picked, from 28 pt to about 56 pt: a rebuild, keeping 14 texels a width so the cost stays the same); how long old courses stay; scroll-bar strength; how long lakes last; the shared grade knobs.
 6. Left overnight: no drift in pace, no banding from rebasing. Then the doc, screenshots, README, site.
 
-Still Dave's to decide: the pace (from a film); whether 0.1–0.2 s to load is acceptable or the past should fill in over the first seconds; the empty margins (valley walls drawn as land, or left as ground); Light Mode (paper map by day, or leave it to the Look setting).
+Still Dave's to decide: the pace (from a film); the first frame (leave the young belt at about 0.2 s to load; a longer history, about 0.45 s; or the distant past drawn cheaply with coarse steps, untried, perhaps 0.1 s more); Light Mode (paper map by day, or leave it to the Look setting).
 
 ## Risks, worst first
-1. Pretty, not just correct. The bands are already striking; the relief, the default, is not there yet.
+1. Pretty, not just correct. The old map is already striking; the relief, the default, is calm and in one family but soft beside the real thing.
 2. Pace: calm enough to be ambient is as still as a look Dave has called finished.
 3. The launch history on the main thread at every load, shuffle and Settings page.
 4. Shader unknowns (above).
